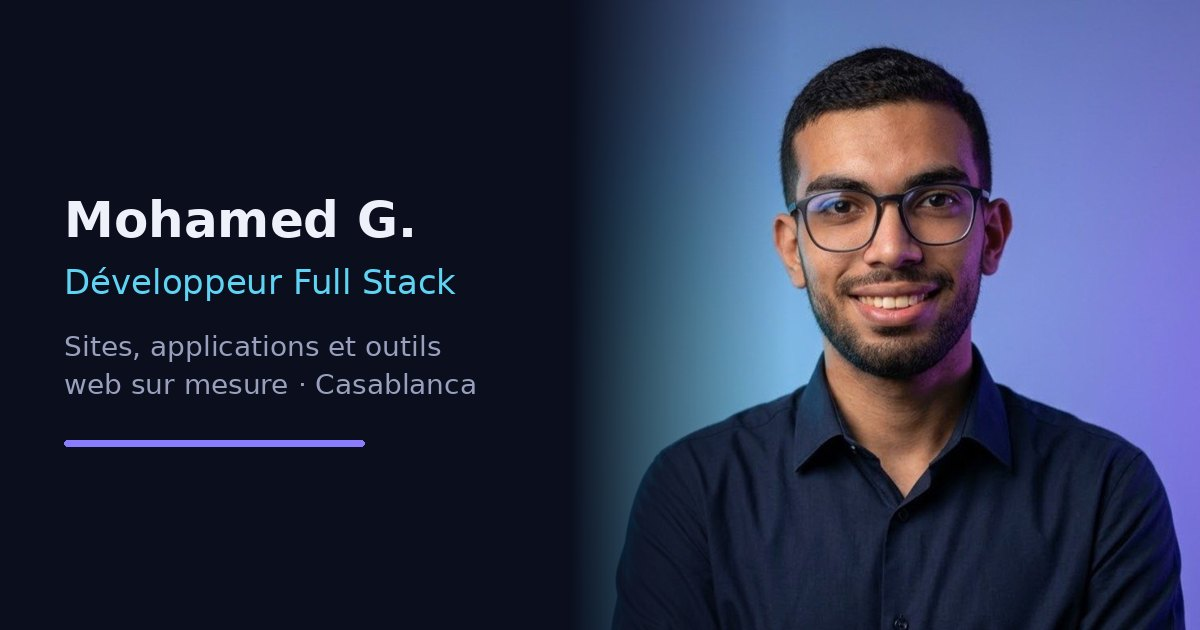
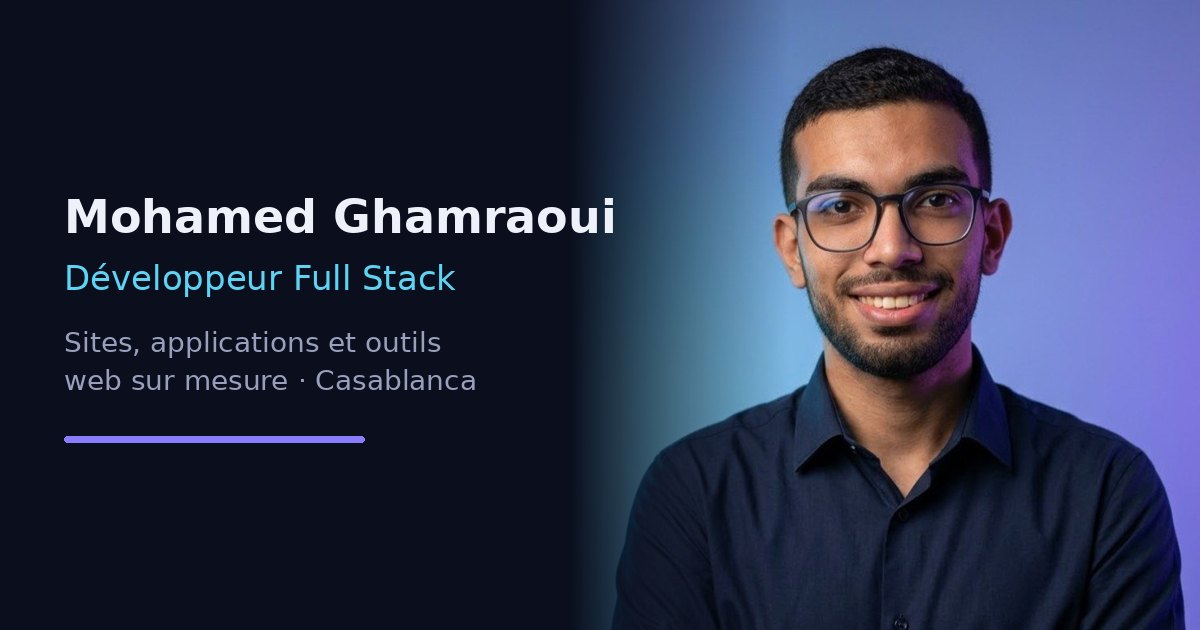
Nom complet, ajustements d'affichage sur petits écrans

diff --git a/index.html b/index.html
@@ -3,12 +3,12 @@
   <head>
     <meta charset="utf-8" />
     <meta name="viewport" content="width=device-width, initial-scale=1, viewport-fit=cover" />
-    <title>Mohamed G. · Développeur Full Stack freelance à Casablanca</title>
+    <title>Mohamed Ghamraoui · Développeur Full Stack freelance à Casablanca</title>
     <meta
       name="description"
       content="Sites, applications et outils web sur mesure pour les entreprises et indépendants. Premier échange gratuit, estimation immédiate, réponse sous 24 h."
     />
-    <meta name="author" content="Mohamed G." />
+    <meta name="author" content="Mohamed Ghamraoui" />
     <meta name="robots" content="index, follow" />
     <link rel="canonical" href="https://mghamraoui4.github.io/mghamraoui4/" />
     <meta name="theme-color" content="#0a0e1d" media="(prefers-color-scheme: dark)" />
@@ -17,8 +17,8 @@
     <meta property="og:type" content="website" />
     <meta property="og:locale" content="fr_FR" />
     <meta property="og:url" content="https://mghamraoui4.github.io/mghamraoui4/" />
-    <meta property="og:site_name" content="Mohamed G." />
-    <meta property="og:title" content="Mohamed G. · Développeur Full Stack freelance" />
+    <meta property="og:site_name" content="Mohamed Ghamraoui" />
+    <meta property="og:title" content="Mohamed Ghamraoui · Développeur Full Stack freelance" />
     <meta
       property="og:description"
       content="Sites, applications et outils web sur mesure. Estimez votre projet en 1 minute."
@@ -42,7 +42,8 @@
       {
         "@context": "https://schema.org",
         "@type": "ProfessionalService",
-        "name": "Mohamed G. · Développeur Full Stack",
+        "name": "Mohamed Ghamraoui · Développeur Full Stack",
+        "founder": { "@type": "Person", "name": "Mohamed Ghamraoui" },
         "url": "https://mghamraoui4.github.io/mghamraoui4/",
         "image": "https://mghamraoui4.github.io/mghamraoui4/img/og-image.jpg",
         "telephone": "+212708262334",
@@ -139,7 +140,7 @@
 
     <nav id="nav">
       <div class="wrap">
-        <a href="#top" class="logo"><span class="dot"></span>Mohamed&nbsp;G.</a>
+        <a href="#top" class="logo"><span class="dot"></span>Mohamed&nbsp;Ghamraoui</a>
         <div class="nav-links">
           <a href="#estimer" class="hide-m">Estimer mon projet</a>
           <a href="#projets" class="hide-m">Réalisations</a>
@@ -1086,7 +1087,7 @@
 
     <footer>
       <div class="wrap mono">
-        <span>© <span id="year"></span> Mohamed G. · Développeur Full Stack · Casablanca</span>
+        <span>© <span id="year"></span> Mohamed Ghamraoui · Développeur Full Stack · Casablanca</span>
         <a href="#top">Retour en haut ↑</a>
       </div>
     </footer>

diff --git a/404.html b/404.html
@@ -4,7 +4,7 @@
     <meta charset="utf-8" />
     <meta name="viewport" content="width=device-width, initial-scale=1" />
     <meta name="robots" content="noindex" />
-    <title>Page introuvable · Mohamed G.</title>
+    <title>Page introuvable · Mohamed Ghamraoui</title>
     <link rel="icon" type="image/svg+xml" href="/mghamraoui4/favicon.svg" />
     <link rel="preconnect" href="https://fonts.googleapis.com" />
     <link rel="preconnect" href="https://fonts.gstatic.com" crossorigin />

diff --git a/css/styles.css b/css/styles.css
@@ -1714,3 +1714,15 @@ footer .wrap {
 .notfound .lede {
   margin-bottom: 30px;
 }
+
+@media (max-width: 440px) {
+  .nav-links .pill {
+    display: none;
+  }
+}
+
+@media (max-width: 420px) {
+  .promises {
+    grid-template-columns: 1fr;
+  }
+}
